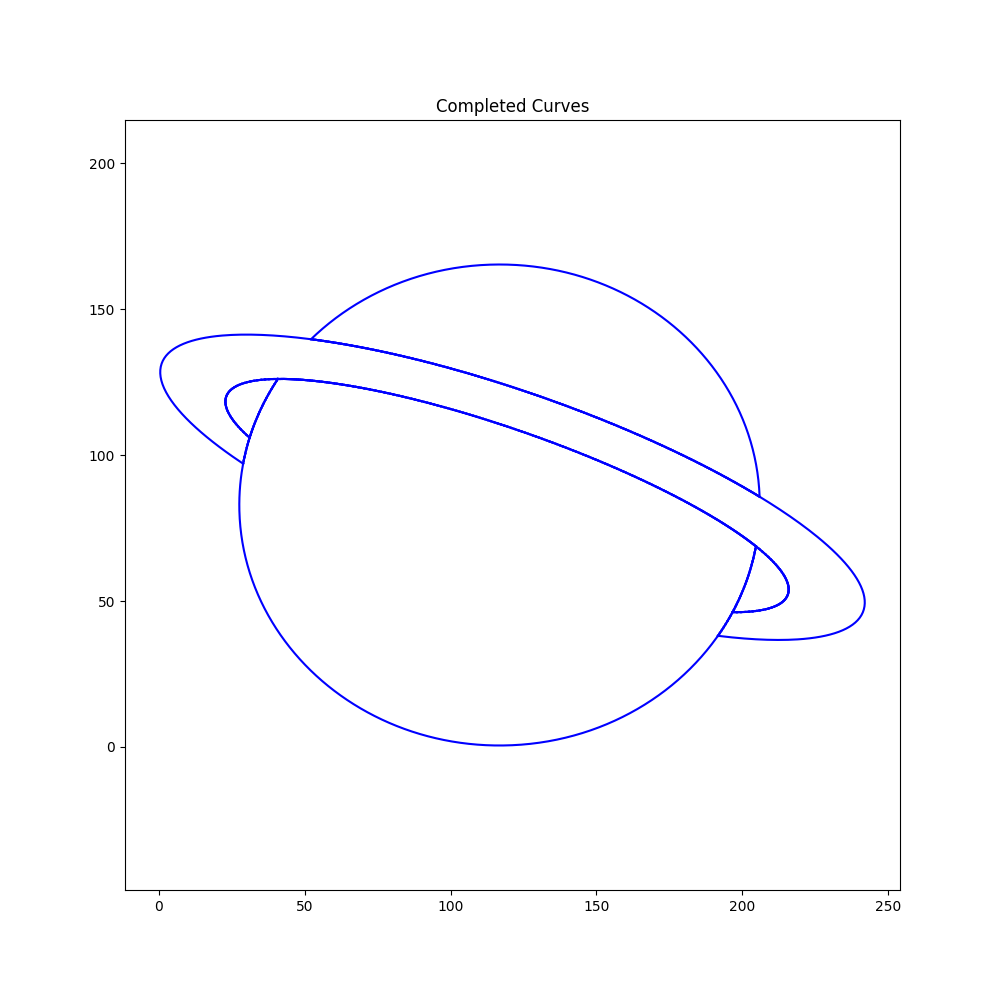
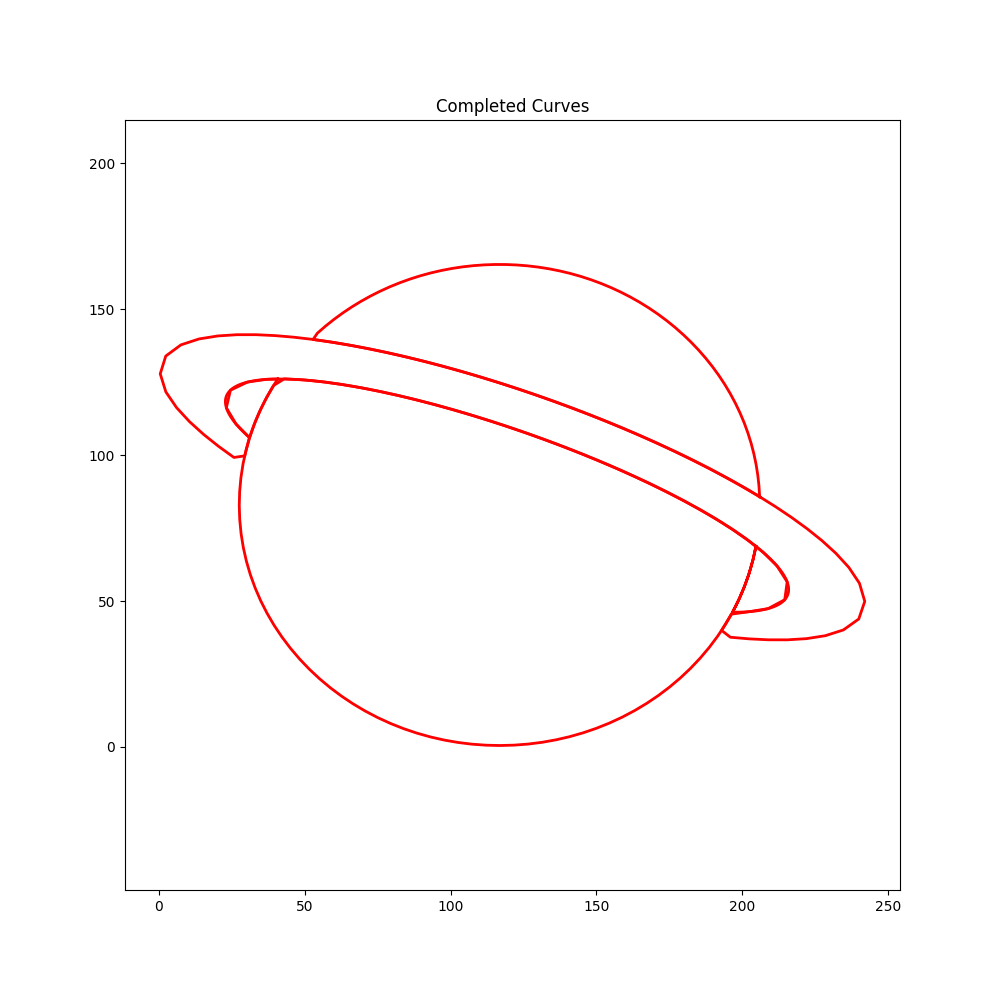
complete curves fixed a bit

diff --git a/complete_curves.py b/complete_curves.py
@@ -1,64 +1,84 @@
 import numpy as np
 import matplotlib.pyplot as plt
-from svgpathtools import svg2paths2, CubicBezier, Line, QuadraticBezier
-from shapely.geometry import LineString, Point
-from shapely.ops import linemerge, nearest_points
+from svgpathtools import svg2paths2, Path
+from shapely.geometry import LineString, Point, MultiLineString
+from shapely.ops import linemerge, unary_union
 from scipy.spatial import cKDTree
 
-def svg_to_segments(svg_file):
+def svg_to_paths(svg_file):
     paths, _, _ = svg2paths2(svg_file)
-    segments = []
-    for path in paths:
-        for segment in path:
-            if isinstance(segment, (CubicBezier, Line, QuadraticBezier)):
-                segments.append(segment)
-    return segments
+    return paths
 
-def segments_to_lines(segments, num_points=100):
-    lines = []
-    for segment in segments:
-        t = np.linspace(0, 1, num_points)
-        points = np.array([segment.point(ti) for ti in t])
-        line = LineString([(float(p.real), float(p.imag)) for p in points])
-        lines.append(line)
-    return lines
+def path_to_line(path, num_points=100):
+    t = np.linspace(0, 1, num_points)
+    points = np.array([path.point(ti) for ti in t])
+    return LineString([(float(p.real), float(p.imag)) for p in points])
 
-def connect_nearby_endpoints(lines, max_distance=10):
-    merged = linemerge(lines)
-    if isinstance(merged, LineString):
-        return [merged]
+def complete_curves(paths, max_distance=5):
+    lines = [path_to_line(path) for path in paths]
     
+    # Extract all endpoints
     endpoints = []
-    for line in merged.geoms:
+    for line in lines:
         endpoints.extend([Point(line.coords[0]), Point(line.coords[-1])])
     
+    # Build KD-tree for efficient nearest neighbor search
     tree = cKDTree([(p.x, p.y) for p in endpoints])
     
     connections = []
     for i, p in enumerate(endpoints):
-        distances, indices = tree.query((p.x, p.y), k=2)
-        if distances[1] <= max_distance and indices[1] != i:
-            connections.append(LineString([p, endpoints[indices[1]]]))
+        distances, indices = tree.query((p.x, p.y), k=2)  # Find the nearest point (excluding self)
+        nearest_index = indices[1]
+        nearest_distance = distances[1]
+        
+        if nearest_distance <= max_distance:
+            nearest_point = endpoints[nearest_index]
+            connection = LineString([p, nearest_point])
+            if not any(existing_line.crosses(connection) for existing_line in lines):
+                connections.append(connection)
     
-    return list(linemerge(list(merged.geoms) + connections).geoms)
-
-def complete_curves(lines, max_distance=10):
-    connected_lines = connect_nearby_endpoints(lines, max_distance)
-    return connected_lines
+    # Merge original lines and new connections
+    all_lines = lines + connections
+    merged = linemerge(all_lines)
+    
+    # Ensure merged is always a list of LineStrings
+    if isinstance(merged, LineString):
+        merged = [merged]
+    elif isinstance(merged, MultiLineString):
+        merged = list(merged.geoms)
+    
+    # Final step: close any nearly closed curves
+    final_curves = []
+    for curve in merged:
+        if not curve.is_ring:
+            start, end = Point(curve.coords[0]), Point(curve.coords[-1])
+            if start.distance(end) <= max_distance:
+                curve = LineString(list(curve.coords) + [curve.coords[0]])
+        final_curves.append(curve)
+    
+    return final_curves
 
 svg_file_path = "data/problems/occlusion2_rec.svg"
-segments = svg_to_segments(svg_file_path)
-lines = segments_to_lines(segments)
-
-completed_curves = complete_curves(lines)
+paths = svg_to_paths(svg_file_path)
+completed_curves = complete_curves(paths, max_distance=10)
 
 plt.figure(figsize=(10, 10))
 
+# Plot original curves
+for path in paths:
+    line = path_to_line(path)
+    x, y = line.xy
+    plt.plot(x, y, color='blue', linewidth=1, alpha=0.5)
+
+# Plot completed curves
 for curve in completed_curves:
     x, y = curve.xy
-    plt.plot(x, y, color='blue')
+    plt.plot(x, y, color='red', linewidth=2)
 
 plt.axis('equal')
 plt.title("Completed Curves")
 plt.savefig("completed_curves.png")
 plt.show()
+
+print(f"Number of original paths: {len(paths)}")
+print(f"Number of completed curves: {len(completed_curves)}")

diff --git a/regularize.py b/regularize.py
@@ -77,7 +77,7 @@ def save_segments_to_svg(segments, svg_path, size):
     dwg.save()
 
 if __name__ == "__main__":
-    input_svg = "data/problems/frag0.svg" # add your path to the input file
+    input_svg = "data/problems/isolated.svg" # add your path to the input file
     output_svg = "regularized_output.svg"
     
     try:
